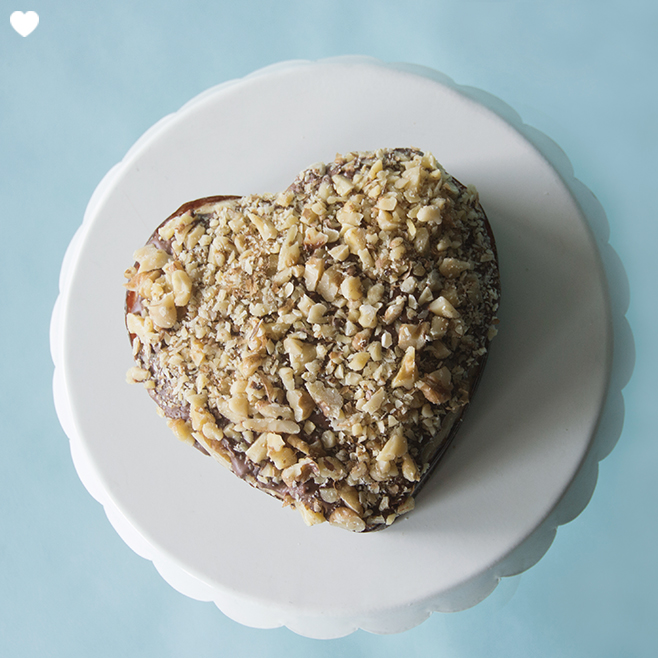
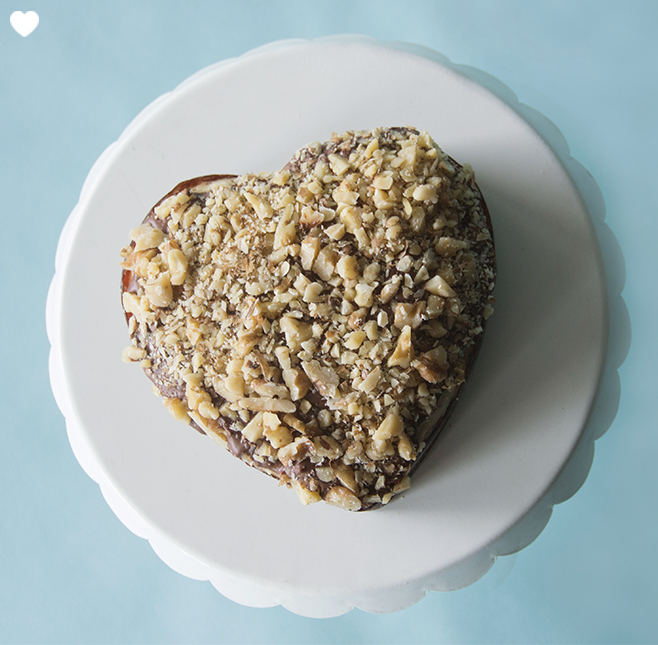
fixed front gallery grid

diff --git a/index.html b/index.html
@@ -47,31 +47,26 @@
 
 <section id="intro">
   <div class="center">
-    <p>Homemade Italian baked goods made with love.</p>
+    <p>Homemade Italian goods baked with love.</p>
   </div>  
 </section>
 
 <section id="gallery">
   <div class="col_2_1 fn snow">
   <img class ="fn snow"src="images/heartcake.jpg">
+  <img src="images/raviolifill.jpg">
+  <div class="col_2_4"><img class ="sandwiches" src="images/sandwiches.jpg"></div>
   </div>
 
-  <!-- <div class="col_2_1">
-  <img src="images/raviolifill.jpg">
-  </div> -->
 
   <div class="col_2_2">
   <img src="images/sandwhich.jpg">
-  </div>
-
-  <div class="col_2_3">
   <a href="shop.html">
   <img class="shop" src="images/shopnow.jpg"></a>
+  <img src="images/burntsug.jpg">
   </div>
 
-  <div class="col_2_3">
-  <img src="images/burntsug.jpg">
-  </div> 
+  
   
 </section> <!-- end of gallery section -->
 

diff --git a/css/style.css b/css/style.css
@@ -25,7 +25,9 @@ body {
     -moz-box-sizing: border-box;
     box-sizing: border-box;
 }
-
+#gallery img{
+  width: 100%;
+}
 
 .container {
   margin: 0 auto;
@@ -205,15 +207,23 @@ p {
 /*//// GLOBAL COL. STRUCTURE /////*/
 
 .col_2_1 {
-  width: 66.66%;
-  padding-left: 55px;
+  width: 59%;
+  margin-left: 46px;
   padding-bottom: 39px;
-  
+}
+
+.col_2_1 img{
+  margin-bottom: 16px;
 }
 
 .col_2_2 {
-  width: 33.33%;
+  margin-left: 22px;
+  width: 32%;
   float: left;
+}
+
+.col_2_2 img {
+  margin-bottom: 16px;
 }
 
 .col_2_3 {
@@ -222,16 +232,19 @@ p {
   float: left;
 }
 
-.col_2_3 a:hover {
+.col_2_2 a:hover {
   opacity: 0.5; 
   filter: alpha(opacity=50);
   cursor: hand;
 }
 
 section#gallery {
-  padding-top: 35px;
   height: 1000px;
 }
+
+.col_2_4 {
+  width: 158%;
+}  
 
 /*///////// FOOTER ///////*/
 
